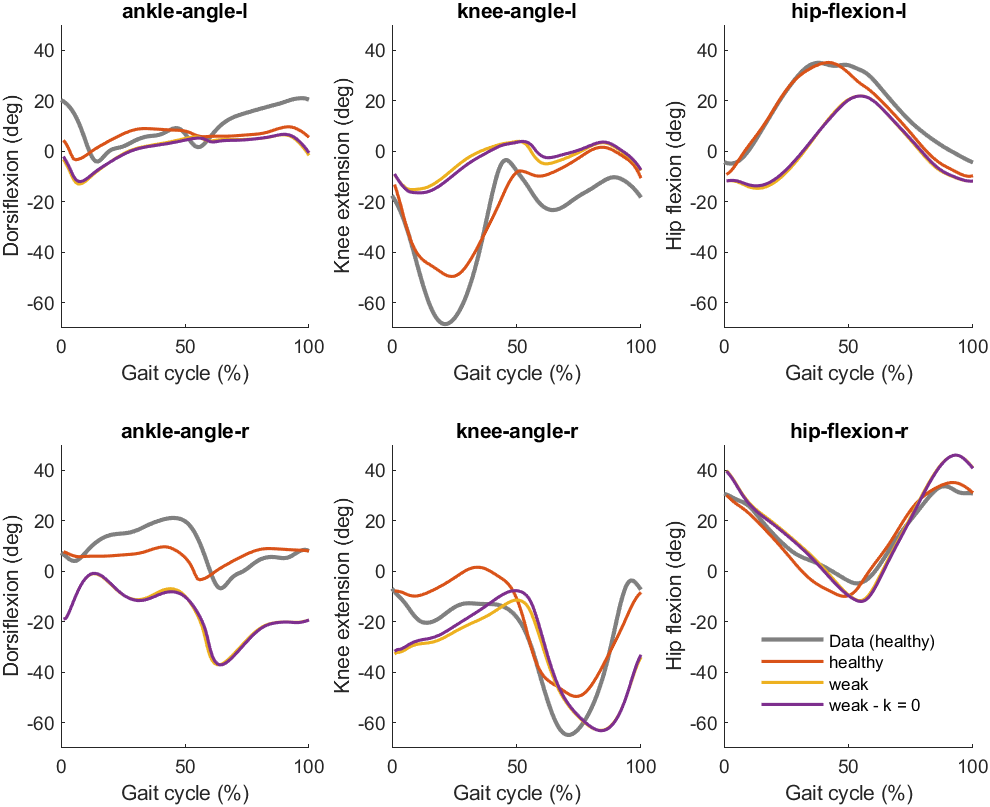
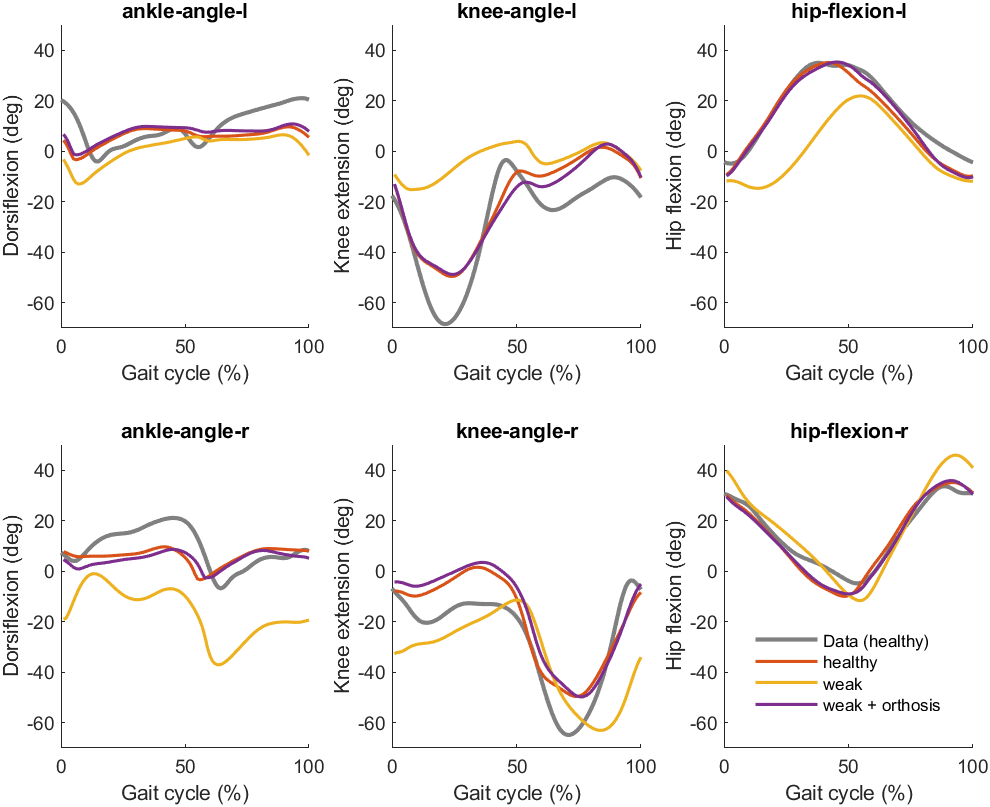
updated Fig2

diff --git a/Sx Foot drop case/Plotting/compare_devices.m b/Sx Foot drop case/Plotting/compare_devices.m
@@ -1,5 +1,5 @@
 clear all; close all; clc
-vs = [1 7]; % versions that we want to plot 
+vs = 1; % versions that we want to plot 
 
 % change this to your own paths
 filename = which('initializeSettings.m');
@@ -31,7 +31,7 @@ for k = 1:length(vs)
     % get orthosis stiffness
     if ~isempty(R.S.orthosis.settings)
         k_ankle = R.S.orthosis.settings{1}.ankle_stiffness;
-        txt2 = [' - k = ', num2str(k_ankle)];
+        txt2 = ' + orthosis';
     else
         txt2 = '';
     end
@@ -76,6 +76,7 @@ filename = which('compare_devices');
 folder = filename(1:end-18);
 cd(folder);
 
-exportgraphics(gcf,'Fig1.png')
+
+% exportgraphics(gcf,'Fig2.png')
 
 

diff --git a/code/update_settings.m b/code/update_settings.m
@@ -1,3 +1,6 @@
 function[S] = update_settings(S)
 
+% Full gait cycle simulations instead of Half gait cycle (default) simulations
+S.misc.gaitmotion_type = 'FullGaitCycle';
+
 end
